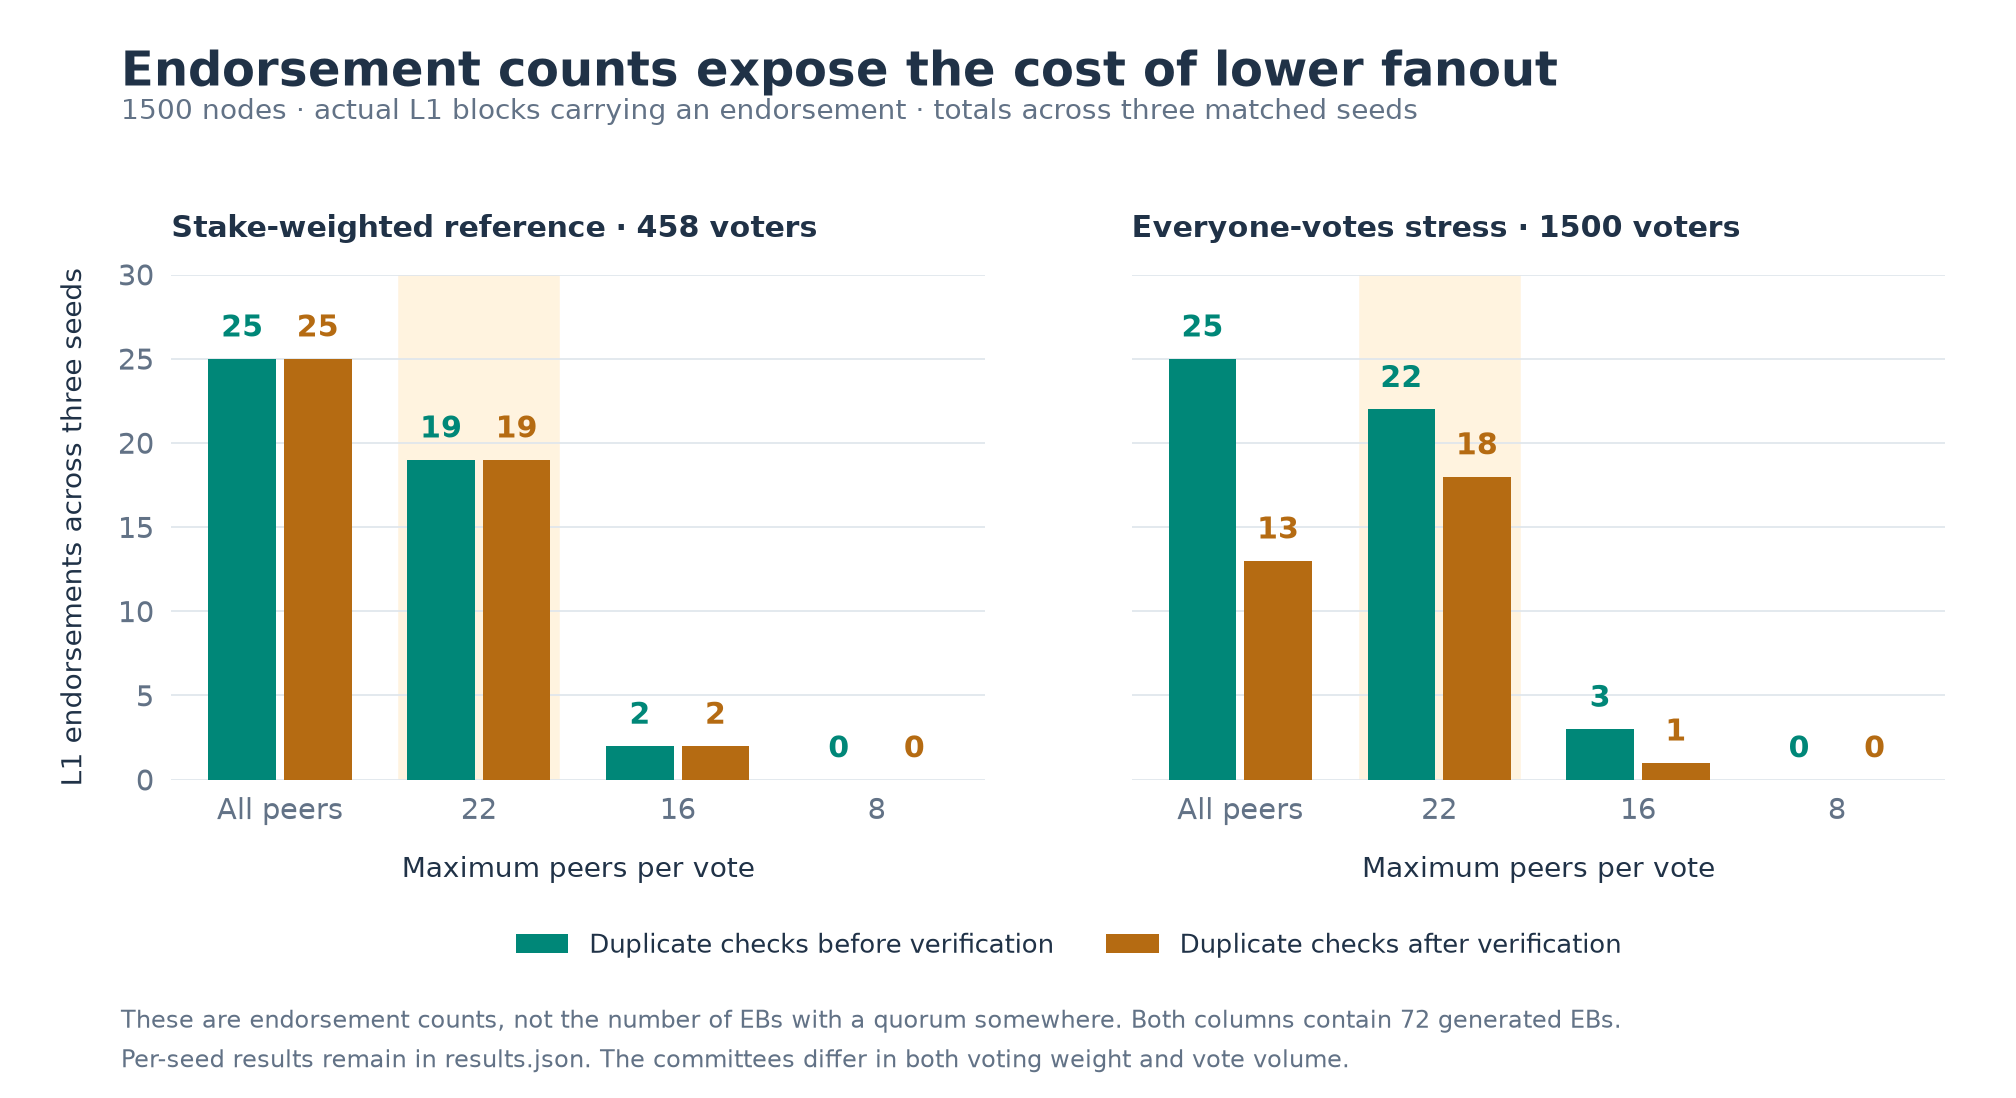
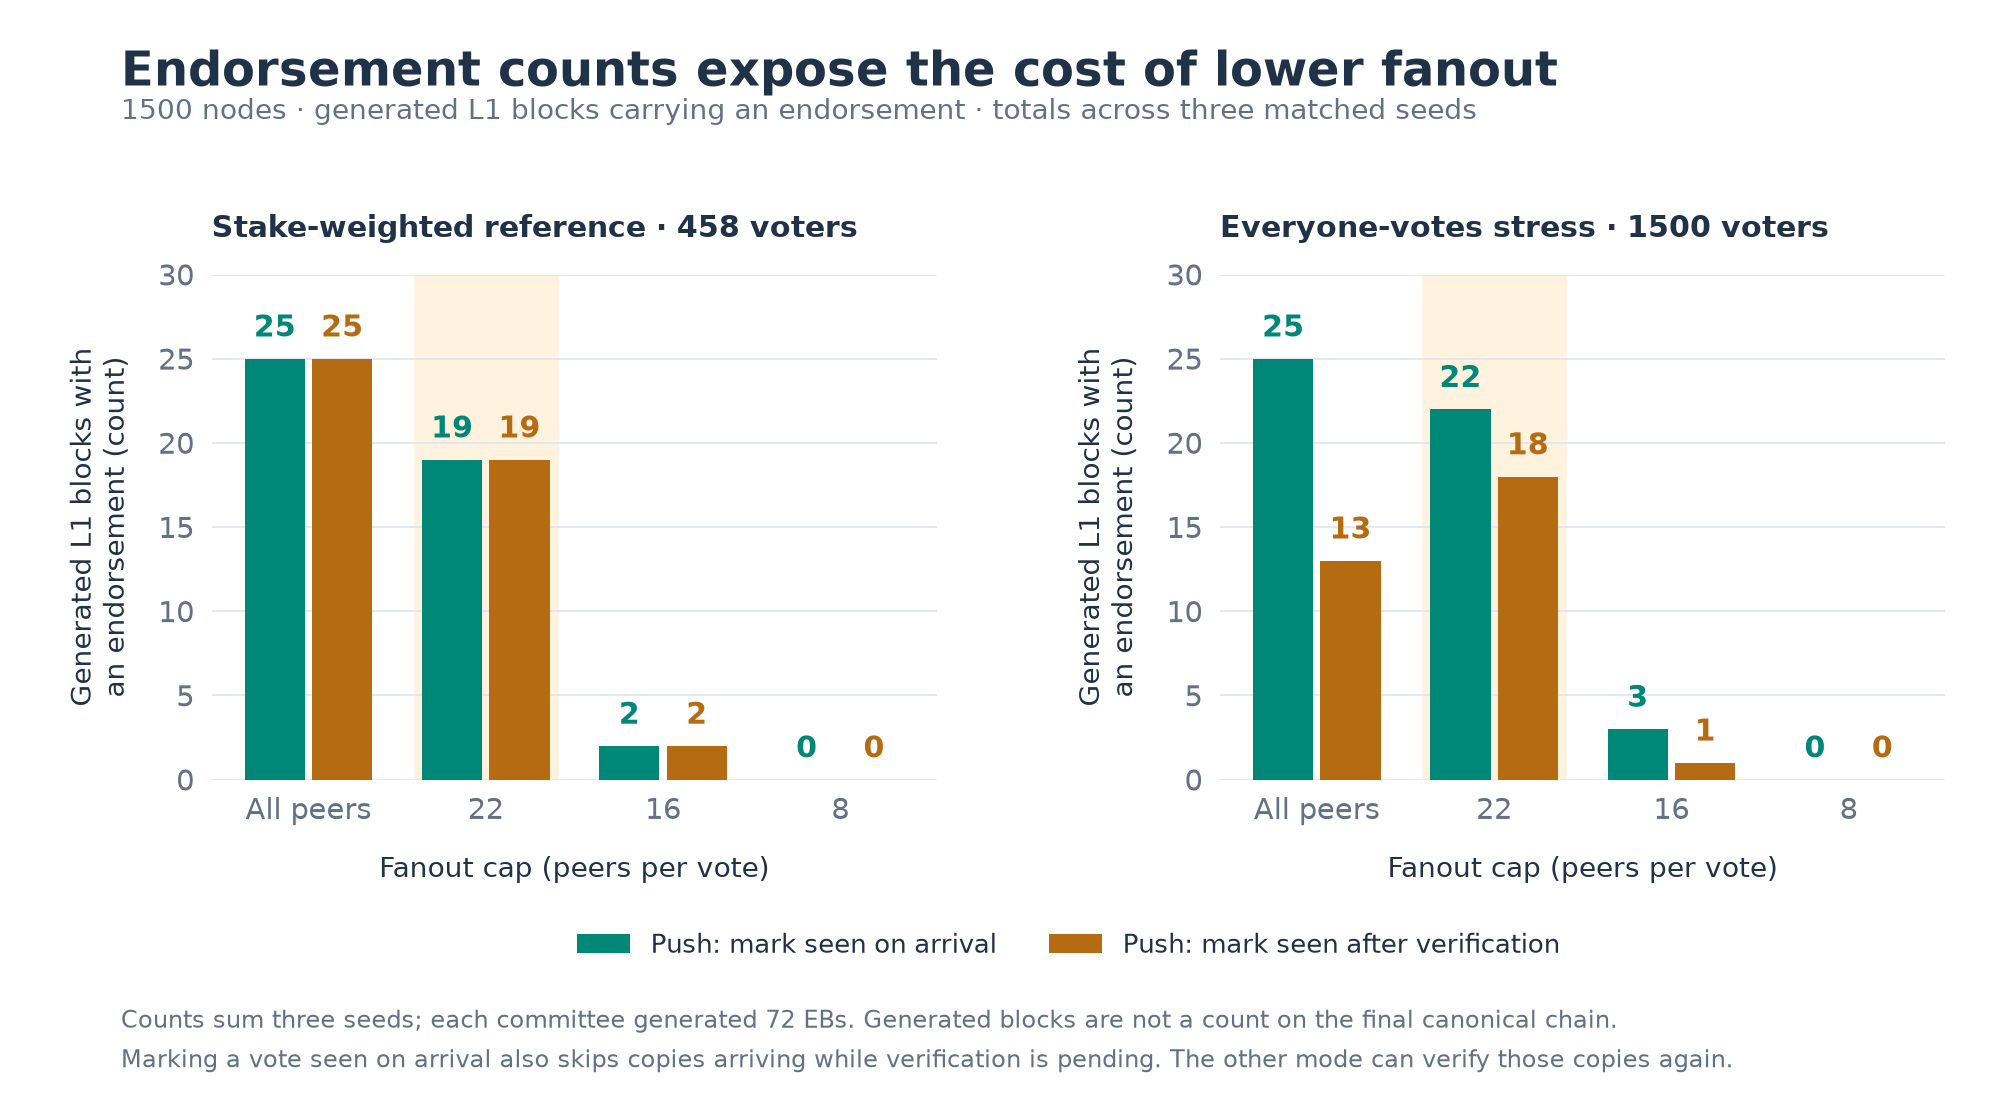
docs: label vote study axes and explain transport terminology

diff --git a/sim-rs/docs/vote-diffusion-results-20260910/plot-results.py b/sim-rs/docs/vote-diffusion-results-20260910/plot-results.py
@@ -71,10 +71,10 @@ def save(fig, name):
 
 
 def fanout_overview():
-    fig, axes = plt.subplots(2, 2, figsize=(11.2, 8.0), sharex=True)
-    fig.subplots_adjust(left=.10, right=.96, top=.80, bottom=.20, hspace=.34, wspace=.22)
+    fig, axes = plt.subplots(2, 2, figsize=(11.2, 9.0))
+    fig.subplots_adjust(left=.105, right=.965, top=.81, bottom=.22, hspace=.64, wspace=.39)
     heading(fig, 'Less duplicate verification, weaker quorum availability',
-            '1500 nodes · push with duplicate checks after verification · three matched seeds')
+            '1500 nodes · push: mark votes seen after verification · three matched seeds')
     titles = ['Stake-weighted reference\n458 eligible voters', 'Everyone-votes stress test\n1500 eligible voters']
     for column, committee in enumerate(COMMITTEES):
         top, bottom = axes[:, column]
@@ -92,7 +92,8 @@ def fanout_overview():
                          xytext=(0, 12), textcoords='offset points', ha='center',
                          color=AMBER, weight='bold', fontsize=11)
         top.set_ylim(0, 14)
-        top.set_yticks([0, 4, 8, 12])
+        top.set_yticks([0, 4, 8, 12], labels=['0×', '4×', '8×', '12×'])
+        top.set_ylabel('Completed verifications\nper accepted arrival (×)', labelpad=10)
         for key, color, marker, offset in [('q50', BLUE, 's', -.025), ('q95', TEAL, 'o', .025)]:
             percentages = [100 * a[key] / a['ebs'] for a in totals]
             xs = [x + offset for x in range(4)]
@@ -117,32 +118,32 @@ def fanout_overview():
                                 ha='center', color=TEAL, weight='bold', fontsize=11)
         bottom.set_ylim(-7, 106)
         bottom.set_yticks([0, 25, 50, 75, 100], labels=['0%', '25%', '50%', '75%', '100%'])
-        bottom.set_xticks(range(4), labels=['All peers', '22', '16', '8'])
-        bottom.set_xlabel('Maximum peers per vote', labelpad=9)
+        bottom.set_ylabel('EBs meeting Q50/Q95\nby t0 + 14 s (%)', labelpad=10)
         for ax in [top, bottom]:
+            ax.set_xticks(range(4), labels=['All peers', '22', '16', '8'])
+            ax.set_xlabel('Fanout cap (peers per vote)', labelpad=9)
             ax.set_xlim(-.4, 3.4)
             ax.axvspan(.72, 1.28, color='#fff3df', zorder=0)
             grid(ax)
-    axes[0, 0].set_ylabel('Completed verifications\nper accepted arrival', labelpad=12)
-    axes[1, 0].set_ylabel('EBs attaining observer quorum\nby the 14s inclusion boundary', labelpad=12)
     fig.legend(handles=[Line2D([0], [0], color=BLUE, marker='s', markerfacecolor='white', lw=2,
-                              label='Q50: nodes holding 50% of stake'),
+                              label='Q50: quorum at nodes holding 50% stake'),
                         Line2D([0], [0], color=TEAL, marker='o', lw=2,
-                              label='Q95: nodes holding 95% of stake')],
-               loc='lower center', bbox_to_anchor=(.53, .066), ncol=2, frameon=False, fontsize=10.5)
-    fig.text(.06, .041, 'Small hollow marks: individual seeds. Lines and labels: pooled totals; all 72 generated EBs remain in the denominator.',
+                              label='Q95: quorum at nodes holding 95% stake')],
+               loc='lower center', bbox_to_anchor=(.53, .091), ncol=2, frameon=False, fontsize=10.5)
+    fig.text(.06, .065, 'Small hollow marks: individual seeds. Lines and labels: pooled totals; all 72 generated EBs remain in the denominator.',
              fontsize=9.2, color=MUTED)
-    fig.text(.06, .019, 'Q50/Q95 measure where an EB quorum is available, not how much voting stake a certificate requires. Lines join tested caps only.',
+    fig.text(.06, .037, '0/72 means no EB reached that observer-coverage target; it does not mean zero endorsements. Lines join tested caps only.',
              fontsize=9.2, color=MUTED)
     save(fig, 'fanout-overview')
 
 
 def transport_comparison():
-    fig, axes = plt.subplots(1, 2, figsize=(11.2, 6.4), sharey=True)
-    fig.subplots_adjust(left=.27, right=.96, top=.78, bottom=.28, wspace=.27)
+    fig, axes = plt.subplots(1, 2, figsize=(11.2, 6.6))
+    fig.subplots_adjust(left=.30, right=.975, top=.78, bottom=.30, wspace=.92)
     heading(fig, 'Push saves time, at about eight times the vote traffic',
-            'Unrestricted diffusion · push suppresses duplicates before verification · three matched seeds')
+            'All peers · push: mark votes seen on arrival · three matched seeds')
     labels = []
+    traffic_labels = []
     for row, (nodes, committee) in enumerate([(750, 'top-stake-seats'), (750, 'everyone'),
                                              (1500, 'top-stake-seats'), (1500, 'everyone')]):
         a, b = group(nodes, committee, 'announce-then-request'), group(nodes, committee, 'push')
@@ -151,6 +152,7 @@ def transport_comparison():
         assert summary['l1_endorsements'] == aggregate(b)['l1_endorsements']
         committee_label = 'Stake-weighted' if committee == 'top-stake-seats' else 'Everyone votes'
         labels.append(f"{nodes} nodes · {committee_label}\nQ95: {summary['q95']}/{summary['ebs']} EBs in both arms")
+        traffic_labels.append(f"{nodes} / {'stake' if committee == 'top-stake-seats' else 'everyone'}")
         y = 3 - row
         for offset, baseline, push in zip([-.15, 0, .15], a, b):
             for ax, x1, x2 in [(axes[0], baseline['quorum_p95']['mean_s'], push['quorum_p95']['mean_s']),
@@ -159,22 +161,26 @@ def transport_comparison():
                 ax.scatter(x1, y + offset, s=35, color=GRAY, marker='s', zorder=3)
                 ax.scatter(x2, y + offset, s=35, color=TEAL, marker='o', zorder=3)
     axes[0].set_yticks([3, 2, 1, 0], labels=labels)
-    axes[0].tick_params(axis='y', labelsize=10.5, pad=13)
+    axes[0].tick_params(axis='y', labelsize=10, pad=10)
+    axes[0].set_ylabel('Network size and committee', labelpad=10)
+    axes[1].set_yticks([3, 2, 1, 0], labels=traffic_labels)
+    axes[1].tick_params(axis='y', labelsize=10)
+    axes[1].set_ylabel('Nodes / committee', labelpad=10)
     axes[0].set_xlim(3.0, 4.17)
     axes[0].set_xticks([3.0, 3.25, 3.5, 3.75, 4.0])
     axes[0].set_title('Quorum time', loc='left', pad=15)
-    axes[0].set_xlabel('Mean Q95 time from t0 (seconds)', labelpad=12)
+    axes[0].set_xlabel('Mean Q95 time from t0 (s)', labelpad=12)
     axes[1].set_xlim(.3, 8.8)
     axes[1].set_xticks([1, 2, 4, 6, 8], labels=['1×', '2×', '4×', '6×', '8×'])
     axes[1].set_title('Vote mini-protocol traffic', loc='left', pad=15)
-    axes[1].set_xlabel('Bytes relative to the paired baseline', labelpad=12)
+    axes[1].set_xlabel('Vote traffic relative to\nannounce/request (×)', labelpad=12)
     for ax in axes:
         ax.set_ylim(-.55, 3.55)
         grid(ax, 'x')
     fig.legend(handles=[Line2D([0], [0], marker='s', color=GRAY, lw=0, label='Announce / request'),
-                        Line2D([0], [0], marker='o', color=TEAL, lw=0, label='Push · early deduplication')],
+                        Line2D([0], [0], marker='o', color=TEAL, lw=0, label='Push: mark seen on arrival')],
                loc='lower center', bbox_to_anchor=(.53, .115), ncol=2, frameon=False, fontsize=11)
-    fig.text(.06, .068, 'Each thin segment joins the same seed. Timing means include only EBs reaching Q95; labels retain the missed EBs.',
+    fig.text(.06, .068, 'Each thin segment joins the same seed. Q95: nodes holding 95% of stake each have a quorum. Means include attained EBs only.',
              fontsize=9.5, color=MUTED)
     fig.text(.06, .032, 'All attained Q95 quorums were before the 7s voting deadline. Equal counts do not establish identical EB identities.',
              fontsize=9.5, color=MUTED)
@@ -182,10 +188,10 @@ def transport_comparison():
 
 
 def endorsement_comparison():
-    fig, axes = plt.subplots(1, 2, figsize=(11.2, 6.1), sharey=True)
-    fig.subplots_adjust(left=.085, right=.965, top=.75, bottom=.29, wspace=.18)
+    fig, axes = plt.subplots(1, 2, figsize=(11.2, 6.1))
+    fig.subplots_adjust(left=.105, right=.965, top=.75, bottom=.29, wspace=.39)
     heading(fig, 'Endorsement counts expose the cost of lower fanout',
-            '1500 nodes · actual L1 blocks carrying an endorsement · totals across three matched seeds')
+            '1500 nodes · generated L1 blocks carrying an endorsement · totals across three matched seeds')
     for column, committee in enumerate(COMMITTEES):
         ax = axes[column]
         ax.set_title('Stake-weighted reference · 458 voters' if column == 0 else 'Everyone-votes stress · 1500 voters',
@@ -199,15 +205,15 @@ def endorsement_comparison():
         ax.set_ylim(0, 30)
         ax.set_yticks([0, 5, 10, 15, 20, 25, 30])
         ax.set_xticks(range(4), labels=['All peers', '22', '16', '8'])
-        ax.set_xlabel('Maximum peers per vote', labelpad=12)
+        ax.set_xlabel('Fanout cap (peers per vote)', labelpad=12)
+        ax.set_ylabel('Generated L1 blocks with\nan endorsement (count)', labelpad=10)
         grid(ax)
-    axes[0].set_ylabel('L1 endorsements across three seeds', labelpad=12)
-    fig.legend(handles=[Patch(facecolor=TEAL, label='Duplicate checks before verification'),
-                        Patch(facecolor=AMBER, label='Duplicate checks after verification')],
+    fig.legend(handles=[Patch(facecolor=TEAL, label='Push: mark seen on arrival'),
+                        Patch(facecolor=AMBER, label='Push: mark seen after verification')],
                loc='lower center', bbox_to_anchor=(.53, .105), ncol=2, frameon=False, fontsize=10.5)
-    fig.text(.06, .064, 'These are endorsement counts, not the number of EBs with a quorum somewhere. Both columns contain 72 generated EBs.',
+    fig.text(.06, .064, 'Counts sum three seeds; each committee generated 72 EBs. Generated blocks are not a count on the final canonical chain.',
              fontsize=9.5, color=MUTED)
-    fig.text(.06, .028, 'Per-seed results remain in results.json. The committees differ in both voting weight and vote volume.', fontsize=9.5, color=MUTED)
+    fig.text(.06, .028, 'Marking a vote seen on arrival also skips copies arriving while verification is pending. The other mode can verify those copies again.', fontsize=9.5, color=MUTED)
     save(fig, 'endorsement-comparison')
 
 

diff --git a/sim-rs/docs/vote-diffusion-results-20260910/README.md b/sim-rs/docs/vote-diffusion-results-20260910/README.md
@@ -2,20 +2,42 @@
 
 All **108 runs** completed: two network sizes, two committee modes, three matched seeds, and announce/request plus two push deduplication orders crossed with unlimited/22/16/8 fanout. Simulator revision `0769c07310fba223a09d8082e2744013c6856a43`.
 
+## Transport terminology
+
+**Push** means sending the vote body directly to peers, without waiting for a
+request. **Mark seen** means remembering a vote's identifier so later copies can
+be discarded. Both push modes verify the first copy before accepting its vote.
+
+| Term used in the figures | Simulator setting | What happens when copies arrive? |
+|---|---|---|
+| Announce / request | `announce-then-request` | Announce the identifier; send the body when the peer requests it. |
+| Push: mark seen on arrival | `push` | Remember the identifier immediately, so copies arriving while verification is queued or running are discarded too. |
+| Push: mark seen after verification | `push-late-dedupe` | Remember the identifier after verification completes. Copies arriving in the meantime can each trigger verification; later copies are discarded. |
+
+Earlier descriptions called the two push modes **early deduplication** and
+**late deduplication**. “Late” referred to this recording step, not delayed
+sending. In particular, the second mode does **not** reverify every duplicate:
+it skips copies of votes already verified. The results tables retain the exact
+configuration values above for reproduction. The two committee models are
+explained in the [study guide](../vote-diffusion-study.md#committee-reference).
+
 ## Findings
 
-- **Unrestricted push trades bandwidth for about half a second.** Across all 12 paired size/committee/seed comparisons, early-deduplicating push retained the announce/request arm's Q95 attainment and L1 endorsement counts. Its conditional mean Q95 time was 0.356–0.530s earlier, with 7.81–7.88× the vote mini-protocol bytes. These are equal counts, not an EB-identity comparison.
-- **Stake-weighted voting does not reproduce the everyone-votes certification loss under unlimited late deduplication.** At 1500 nodes, both push orders reached Q95 for 58/72 generated EBs and produced 25 L1 endorsements across the three seeds. Late deduplication still incurred 9.69 completed verifications per accepted arrival and increased conditional mean Q95 times from 3.334–3.339s to 3.796–3.814s. The reference has 458 eligible pools, so it also generates fewer vote bodies than the 1500-voter stress arm.
-- **Fanout 22 relieves some verification load, at a cost in availability.** In the 1500-node everyone-votes, late-deduplication arm, it reduced total completed verifications by 30.0% and wire bytes by 29.4%; median-observer quorum attainment increased from 37/72 to 50/72 EBs and L1 endorsements from 13 to 18. Q95 attainment fell from 37/72 to zero. In the stake-weighted late-deduplication arm, fanout 22 cut wire bytes by 40.3% and verifications by 43.2%, but median attainment fell from 58/72 to 57/72 and endorsements from 25 to 19; Q95 again fell to zero.
+- **Unrestricted push trades bandwidth for about half a second.** Across all 12 paired size/committee/seed comparisons, push that marks votes seen on arrival retained the announce/request arm's Q95 attainment and L1 endorsement counts. Its conditional mean Q95 time was 0.356–0.530s earlier, with 7.81–7.88× the vote mini-protocol bytes. These are equal counts, not an EB-identity comparison.
+- **At 1500 nodes, marking votes seen after verification reduces endorsement counts only in the everyone-votes arm.** With unrestricted push, the stake-weighted reference reached Q95 for 58/72 generated EBs and produced 25 L1 endorsements across the three seeds with either push setting. Marking seen after verification still incurred 9.69 completed verifications per accepted arrival and increased conditional mean Q95 times from 3.334–3.339s to 3.796–3.814s. The reference has 458 eligible pools, so it also generates fewer vote bodies than the 1500-voter stress arm.
+- **Fanout 22 relieves some verification load, at a cost in availability.** In the 1500-node everyone-votes arm that marks seen after verification, it reduced total completed verifications by 30.0% and wire bytes by 29.4%; median-observer quorum attainment increased from 37/72 to 50/72 EBs and L1 endorsements from 13 to 18. Q95 attainment fell from 37/72 to zero. In the stake-weighted arm with the same handling of copies, fanout 22 cut wire bytes by 40.3% and verifications by 43.2%, but median attainment fell from 58/72 to 57/72 and endorsements from 25 to 19; Q95 again fell to zero.
 - **None of the tested bounded fanouts preserves broad quorum availability.** All 72 runs with fanout 22/16/8 had zero EBs reaching Q95. Fanout 22 often retained median-observer quorum, while 16 and 8 never reached the median in these runs. Fanout 8 produced zero L1 endorsements in every arm. A first-node quorum can still exist; zero Q95 does not mean nobody obtained a quorum.
 
 These results support unlimited simple vote streaming as feasible under the modeled load, with a bandwidth/latency trade-off. They do not establish a safe bounded-fanout setting or predict the Haskell node's exact performance. Lower fanout reduces verification work but, in this matrix, does not preserve the broad availability of unrestricted diffusion.
 
 ## Reading the measurements
 
+`t0` is the start of the ranking-block slot that announced the EB. Chart times
+and deadlines are measured from that point.
+
 An EB quorum means a node has votes totaling 75% of active stake in the fixed-size reference, or 75% of nodes in the everyone-votes stress arm. **Q50/Q95 are different thresholds:** the time when nodes holding 50%/95% of observer stake each have that EB quorum. They are not 50%/95% of vote bodies received. The summary's separate body-coverage statistic is unweighted by observer stake and is not a certificate-availability guarantee.
 
-Counts include every generated EB; missed quorums remain in the denominator. Timing means include only EBs that reached the stated observer threshold. All reported attained observer quorums in this batch occurred by 7s, so their counts by 7s, by 14s and at run end coincide. This does not make 7s and 14s interchangeable protocol constraints. L1 endorsements count blocks that actually included an endorsement; they are not the same as EBs that reached a quorum somewhere.
+Counts include every generated EB; missed quorums remain in the denominator. Timing means include only EBs that reached the stated observer threshold. All reported attained observer quorums in this batch occurred by 7s, so their counts by 7s, by 14s and at run end coincide. This does not make 7s and 14s interchangeable protocol constraints. L1 endorsements count generated ranking blocks carrying an endorsement. This is neither a count of EBs reaching quorum somewhere nor a separately verified count on the final canonical chain.
 
 ## Availability versus verification cost at 1500 nodes
 
@@ -63,13 +85,14 @@ These compare unlimited-fanout push with announce/request for the same topology,
 
 ![L1 endorsement counts at each fanout, split by committee and duplicate-check order](figures/endorsement-comparison.png)
 
-**Figure 3.** Under unrestricted push, late deduplication reduces endorsements
-from 25 to 13 in the everyone-votes stress arm, while the stake-weighted reference
-retains 25 with either order. Fanout 22 raises the stress arm's late-deduplication
-count to 18, but reduces the reference to 19. This explains why the local recovery
+**Figure 3.** Under unrestricted push, marking votes seen after verification
+reduces endorsements from 25 to 13 in the everyone-votes stress arm, while the stake-weighted reference
+retains 25 with either setting. Fanout 22 raises the stress arm's count with that
+policy to 18, but reduces the reference to 19. This explains why the local recovery
 in the overloaded arm is insufficient to recommend fanout 22: Figure 1 also
-shows its loss of Q95 availability. Bars sum three seeds and count actual L1
-endorsements, not EBs with a quorum somewhere.
+shows its loss of Q95 availability. Bars sum three seeds and count generated L1
+blocks carrying endorsements. They do not measure inclusion on the final
+canonical chain.
 
 ## Fanout and validation order
 

diff --git a/sim-rs/docs/vote-diffusion-study.md b/sim-rs/docs/vote-diffusion-study.md
@@ -5,6 +5,16 @@ committee, and whether selective fetching or reduced fanout improves timing,
 bandwidth or verification cost. The comparison covers Linear Leios. Full Haskell
 node parity is not a prerequisite for this experiment.
 
+## Transport terminology
+
+The [transport definitions in the report](vote-diffusion-results-20260910/README.md#transport-terminology)
+map figure labels to the exact configuration values. `push` marks a vote's ID
+seen on arrival and suppresses copies even while verification is pending.
+`push-late-dedupe` marks it seen after verification, so copies received while the
+first check is pending can trigger additional checks. Both discard copies of
+already verified votes. This is the meaning of “early” and “late” deduplication
+in earlier descriptions; neither term describes when the vote is sent.
+
 ## Committee reference
 
 [CIP PR #1196](https://github.com/cardano-foundation/CIPs/pull/1196) replaced
